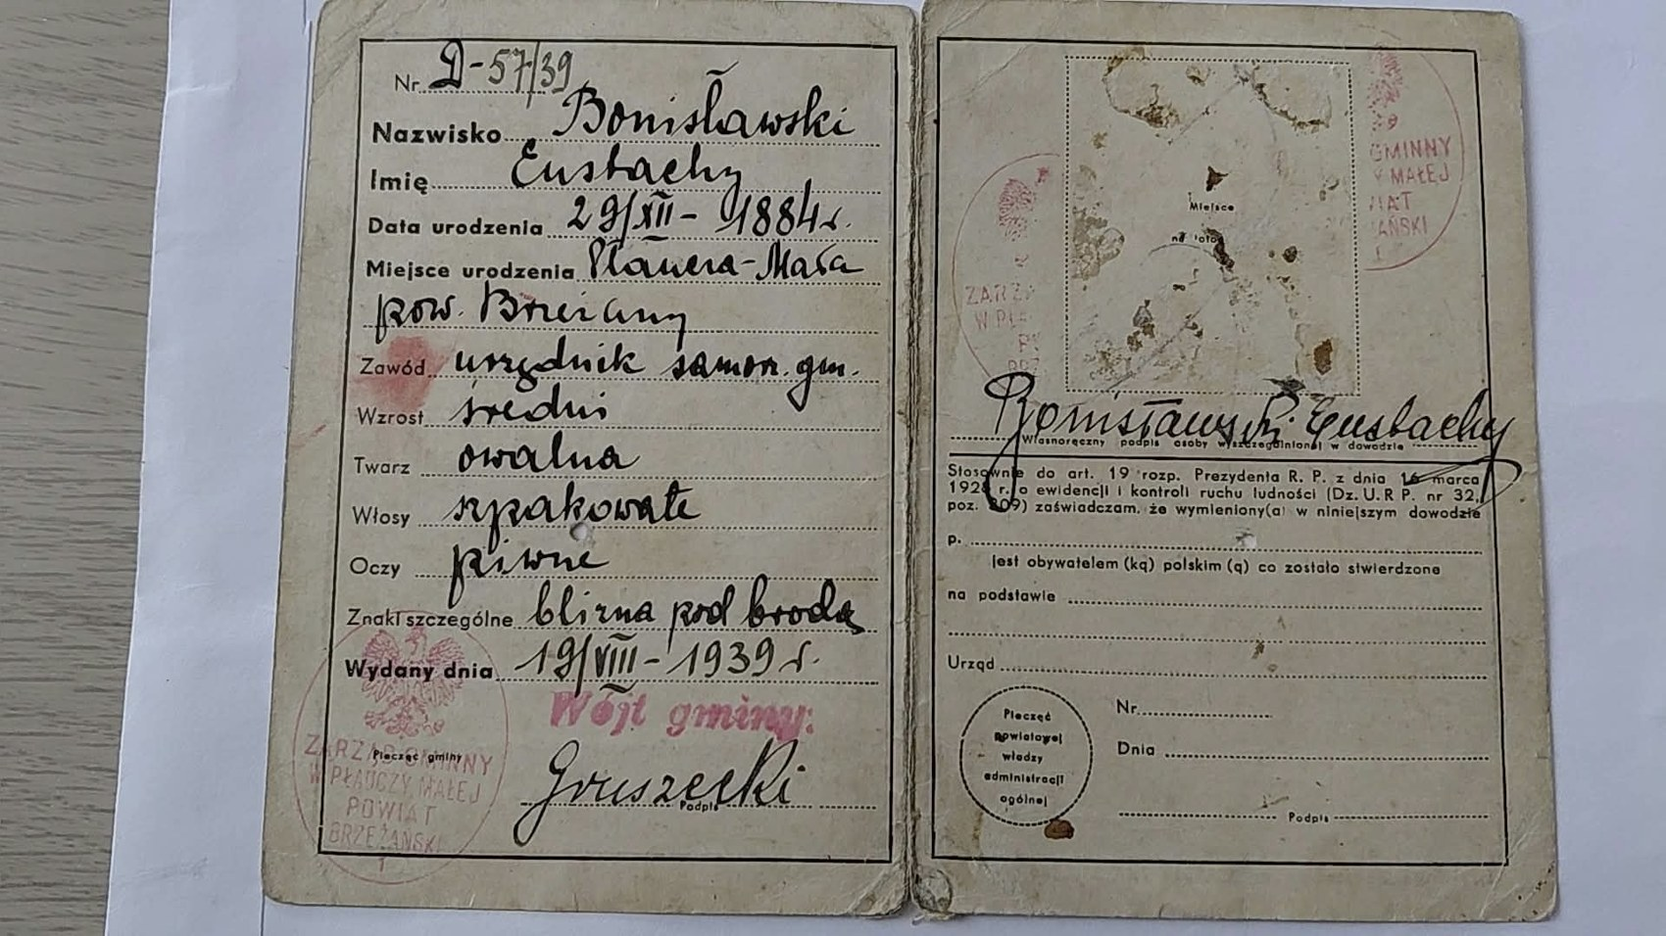
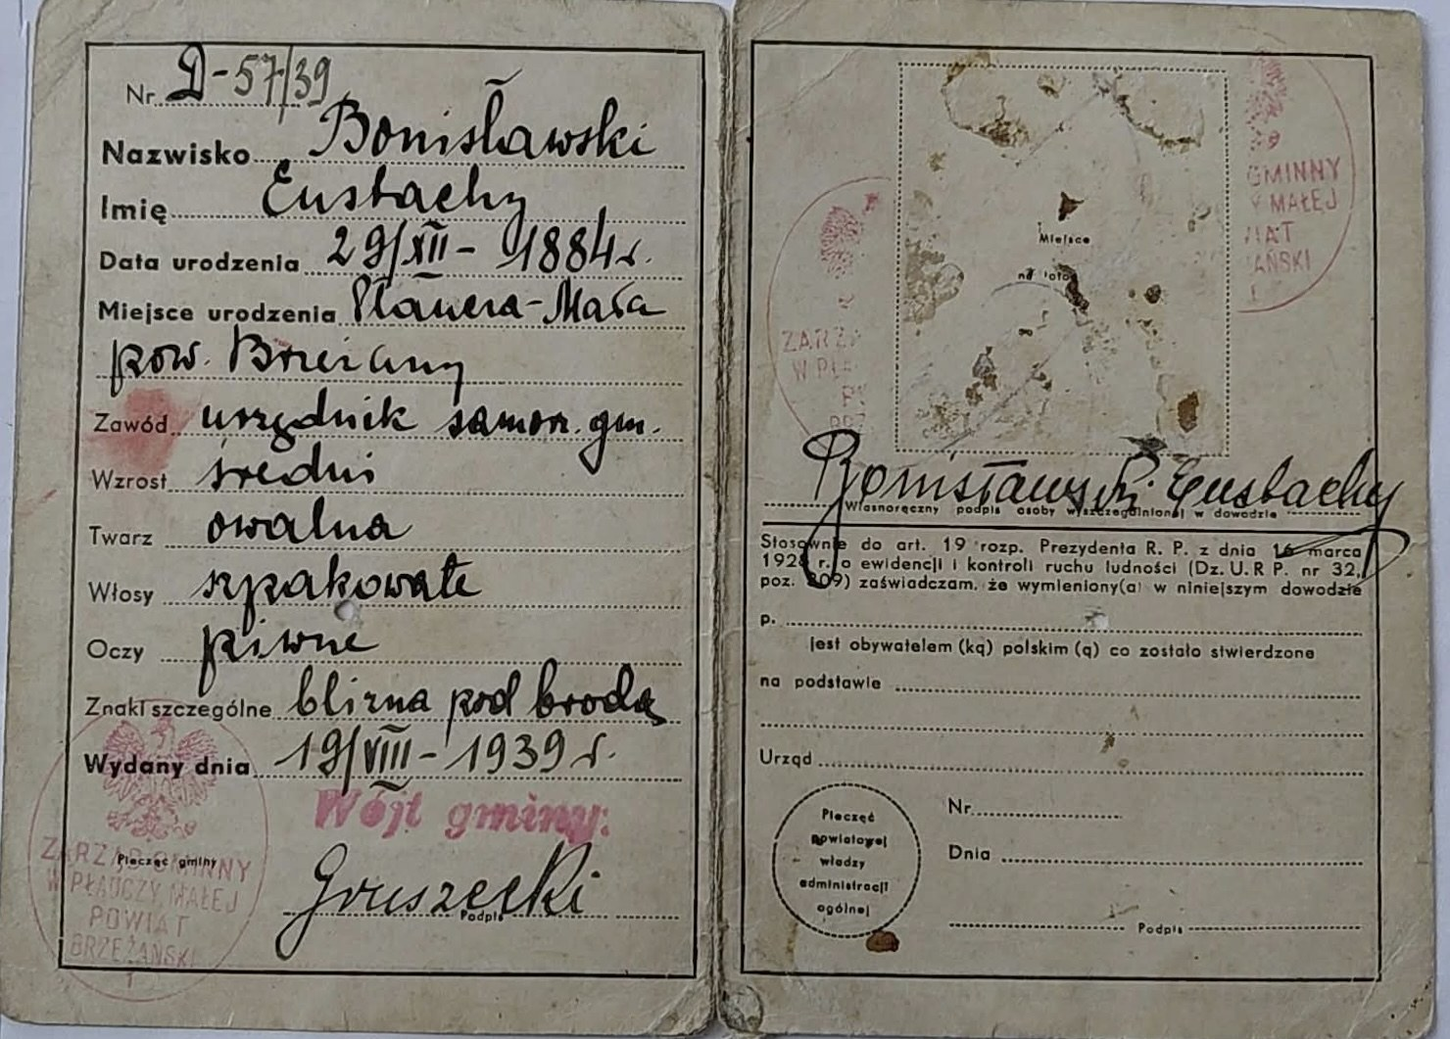
Eustachy: nowo wykadrowane skany dowodu i zawiadomienia szkolnego
Claude-Session: https://claude.ai/code/session_01MVSwCffncwZpnsp3xC5Tny

diff --git a/eustachy-i-maria.html b/eustachy-i-maria.html
@@ -8,7 +8,7 @@
     
   </header>
   <section class="pair" aria-label="Maria i Eustachy"><article class="person"><figure><button class="zoom" type="button" data-cap="Maria Bonisławska z d. Murzyńska. Koloryzacja zdjęcia" data-src="Zbiory rodzinne. Koloryzacja cyfrowa" aria-label="Powiększ zdjęcie: Maria Murzyńska"><div class="portrait"><img src="zdjecia/maria-murzynska-portret-koloryzacja.jpg?v=db186051" alt="Maria Bonisławska z d. Murzyńska. Koloryzacja zdjęcia"></div></button><figcaption><strong>Maria Murzyńska</strong><span>1892–1972</span></figcaption></figure><dl class="facts"><dt>Urodzona</dt><dd><span class="sym">*</span>17.10.1892, Płaucza Mała, dom nr 129</dd><dt>Zmarła</dt><dd><span class="sym">†</span>12.05.1972, Wierzbica Górna</dd><dt>Ślub</dt><dd>Eustachy Bonisławski</dd><dt>Mieszkała</dt><dd>Płaucza Mała, Wierzbica Górna 46</dd><dt>Ojciec</dt><dd><a href="mikolaj-i-justyna.html">Mikołaj Murzyński</a></dd><dt>Matka</dt><dd><a href="mikolaj-i-justyna.html">Justyna z d. Drewnicka</a></dd></dl><p class="factnote">Ojciec, Mikołaj Murzyński, określony jako nobilis.</p></article><article class="person"><figure><button class="zoom" type="button" data-cap="Eustachy Bonisławski. Koloryzacja zdjęcia" data-src="Zbiory rodzinne. Koloryzacja cyfrowa" aria-label="Powiększ zdjęcie: Eustachy Bonisławski"><div class="portrait"><img src="zdjecia/eustachy-bonislawski-portret-koloryzacja.jpg?v=5d2175d5" alt="Eustachy Bonisławski. Koloryzacja zdjęcia"></div></button><figcaption><strong>Eustachy Bonisławski</strong><span>1884–1939/1940</span></figcaption></figure><dl class="facts"><dt>Urodzony</dt><dd><span class="sym">*</span>29.12.1884, Płaucza Mała, dom nr 124</dd><dt>Zmarł</dt><dd><span class="sym">†</span>1939/1940, Płaucza Mała</dd><dt>Przyczyna śmierci</dt><dd>pobicie</dd><dt>Ślub</dt><dd>Maria Murzyńska</dd><dt>Zawód</dt><dd>kierował pocztą i był sekretarzem gminy</dd><dt>Mieszkał</dt><dd>Płaucza Mała 124</dd><dt>Ojciec</dt><dd><a href="franciszek-i-klara.html">Franciszek Bonisławski</a></dd><dt>Matka</dt><dd><a href="franciszek-i-klara.html">Klara z d. Sarnicka</a></dd></dl><p class="factnote">Data urodzenia według metryki urodzenia (zgodnie z dowodem osobistym i zawiadomieniem szkolnym).</p></article></section>
-  <section class="chapter"><h2>Dokumenty</h2><article class="story"><h3>Eustachy Bonisławski</h3><p>Eustachy Bonisławski kierował pocztą i był sekretarzem gminy. W dowodzie osobistym wydanym 19 sierpnia 1939 roku jako zawód wpisano: urzędnik samorządu gminnego.</p><p>W rodzinie Eustachego nazywano Stanisławem. Tak jest zapisany także w zawiadomieniu szkolnym z 1898 roku.</p><p class="srcnote">Źródło <a href="https://polska1926.pl/podpisy/1187233" target="_blank" rel="noopener">polska1926.pl, podpis nr 1187233</a></p><figure class="inline"><button class="zoom" type="button" data-cap="Metryka urodzenia Eustachego (Eustachius), Płaucza Mała, dom nr 124, urodzony i ochrzczony 29 grudnia 1884 r. Rodzice: Franciscus Bonisławski i Clara Sarnicka. Liber natorum 1884, s. 9." data-src="Archiwum Główne Akt Dawnych, zespół 301, sygn. 1610, Liber natorum 1884, Płaucza Mała, skan 0145" aria-label="Powiększ: Metryka urodzenia Eustachego (Eustachius), Płaucza Mała, dom nr 124, urodzony i ochrzczony 29 grudnia 1884 r. Rodzice: Franciscus Bonisławski i Clara Sarnicka. Liber natorum 1884, s. 9."><img src="skany/eustachy-metryka-urodzenia-1884.jpg?v=a4caab62" alt="Metryka urodzenia Eustachego (Eustachius), Płaucza Mała, dom nr 124, urodzony i ochrzczony 29 grudnia 1884 r. Rodzice: Franciscus Bonisławski i Clara Sarnicka. Liber natorum 1884, s. 9." loading="lazy" class=""></button><figcaption class="cap">Metryka urodzenia Eustachego (Eustachius), Płaucza Mała, dom nr 124, urodzony i ochrzczony 29 grudnia 1884 r. Rodzice: Franciscus Bonisławski i Clara Sarnicka. Liber natorum 1884, s. 9.<span class="src"><a href="https://agadd.home.net.pl/metrykalia/301/sygn.%201610/pages/PL_1_301_1610_0145.htm" target="_blank" rel="noopener">Archiwum Główne Akt Dawnych, zespół 301, sygn. 1610, Liber natorum 1884, Płaucza Mała, skan 0145</a></span></figcaption></figure><figure class="inline"><button class="zoom" type="button" data-cap="Świadectwo chrztu Eustachego (Testimonium Baptismi), parafia Budyłów, wydane 1 maja 1925, z wpisu w księdze: Płaucza Mała, tom III, s. 46." data-src="Zbiory rodzinne" aria-label="Powiększ: Świadectwo chrztu Eustachego (Testimonium Baptismi), parafia Budyłów, wydane 1 maja 1925, z wpisu w księdze: Płaucza Mała, tom III, s. 46."><img src="skany/eustachy-swiadectwo-chrztu-budylow.jpg?v=2827daf3" alt="Świadectwo chrztu Eustachego (Testimonium Baptismi), parafia Budyłów, wydane 1 maja 1925, z wpisu w księdze: Płaucza Mała, tom III, s. 46." loading="lazy" class=""></button><figcaption class="cap">Świadectwo chrztu Eustachego (Testimonium Baptismi), parafia Budyłów, wydane 1 maja 1925, z wpisu w księdze: Płaucza Mała, tom III, s. 46.<span class="src">Zbiory rodzinne</span></figcaption></figure><blockquote class="trans"><div class="label">Odczyt świadectwa chrztu</div><div class="tl">Testimonium Baptismi. Archidiecezja lwowska, powiat Brzeżany, parafia Budyłów.</div><div class="tl">Parafia obrządku łacińskiego, kościół pw. Najświętszej Maryi Panny w Budyłowie; wieś Płaucza Mała, tom III, s. 46.</div><div class="tl">Anno Domini 1884, dnia 29 grudnia urodzony w Płauczy Małej, pod nr 124, i tego samego dnia ochrzczony.</div><div class="tl">Imię: Eustachius. Religia: rzymskokatolicka obrządku łacińskiego. Płeć: chłopiec. Ślubny (legitimus).</div><div class="tl">Rodzice: Franciszek Bonisławski, rolnik, syn Stanisława i Marty z d. Rewna; Klara Sarnicka, córka Michała i Franciszki Pichur (odczyt niepewny).</div><div class="tl">Rodzice chrzestni: Szymon Sarnicki, rolnik, oraz [nazwisko niepewne] żona Aleksego, rolnika.</div><div class="tl">Akuszerka: Justyna Lisowska.</div><div class="tl">Wydano w Budyłowie 1 maja 1925; podpis proboszcza, pieczęć Urzędu Parafialnego w Budyłowie.</div><p class="tnote">Pismo jest częściowo trudne do odczytania. W nawiasach kwadratowych podano miejsca niepewne lub nieczytelne.</p></blockquote><figure class="inline"><button class="zoom" type="button" data-cap="Okładka dowodu osobistego, ser. E nr 667050: gmina Płaucza Mała, powiat brzeżański." data-src="Zbiory rodzinne" aria-label="Powiększ: Okładka dowodu osobistego, ser. E nr 667050: gmina Płaucza Mała, powiat brzeżański."><img src="skany/eustachy-dowod-okladka-1939.jpg?v=4a55e890" alt="Okładka dowodu osobistego, ser. E nr 667050: gmina Płaucza Mała, powiat brzeżański." loading="lazy" class=""></button><figcaption class="cap">Okładka dowodu osobistego, ser. E nr 667050: gmina Płaucza Mała, powiat brzeżański.<span class="src">Zbiory rodzinne</span></figcaption></figure><figure class="inline wide"><button class="zoom" type="button" data-cap="Dowód osobisty Eustachego Bonisławskiego, nr D-57/39, wydany 19 VIII 1939 r. Data urodzenia: 29 XII 1884 r., miejsce urodzenia: Płaucza Mała, pow. Brzeżany." data-src="Zbiory rodzinne" aria-label="Powiększ: Dowód osobisty Eustachego Bonisławskiego, nr D-57/39, wydany 19 VIII 1939 r. Data urodzenia: 29 XII 1884 r., miejsce urodzenia: Płaucza Mała, pow. Brzeżany."><img src="skany/eustachy-dowod-1939.jpg?v=c0a7e911" alt="Dowód osobisty Eustachego Bonisławskiego, nr D-57/39, wydany 19 VIII 1939 r. Data urodzenia: 29 XII 1884 r., miejsce urodzenia: Płaucza Mała, pow. Brzeżany." loading="lazy" class=""></button><figcaption class="cap">Dowód osobisty Eustachego Bonisławskiego, nr D-57/39, wydany 19 VIII 1939 r. Data urodzenia: 29 XII 1884 r., miejsce urodzenia: Płaucza Mała, pow. Brzeżany.<span class="src">Zbiory rodzinne</span></figcaption></figure><figure class="inline"><button class="zoom" type="button" data-cap="Zawiadomienie szkolne z 1 II 1898 r., szkoła w Płauczy Małej, klasa IV, rok szkolny 1897/8. Uczeń: Eustachy Bonisławski, zapisany w dokumencie jako Stanisław, ur. 29 grudnia 1884 w Płauczy Małej. Podpis ojca: Franciszek Bonisławski." data-src="Zbiory rodzinne" aria-label="Powiększ: Zawiadomienie szkolne z 1 II 1898 r., szkoła w Płauczy Małej, klasa IV, rok szkolny 1897/8. Uczeń: Eustachy Bonisławski, zapisany w dokumencie jako Stanisław, ur. 29 grudnia 1884 w Płauczy Małej. Podpis ojca: Franciszek Bonisławski."><img src="skany/zawiadomienie-szkolne-1898.jpg?v=d28e2fca" alt="Zawiadomienie szkolne z 1 II 1898 r., szkoła w Płauczy Małej, klasa IV, rok szkolny 1897/8. Uczeń: Eustachy Bonisławski, zapisany w dokumencie jako Stanisław, ur. 29 grudnia 1884 w Płauczy Małej. Podpis ojca: Franciszek Bonisławski." loading="lazy" class=""></button><figcaption class="cap">Zawiadomienie szkolne z 1 II 1898 r., szkoła w Płauczy Małej, klasa IV, rok szkolny 1897/8. Uczeń: Eustachy Bonisławski, zapisany w dokumencie jako Stanisław, ur. 29 grudnia 1884 w Płauczy Małej. Podpis ojca: Franciszek Bonisławski.<span class="src">Zbiory rodzinne</span></figcaption></figure></article></section><section class="chapter"><h2>Dwudziestolecie międzywojenne</h2><article class="story"><h3>Eustachy Bonisławski</h3><p>„Głos Brzeżański” w artykule „Posiedzenie Rady Powiatowej” opisał drugie posiedzenie nowo wybranej Rady Powiatowej, które odbyło się 29 lipca 1935 roku. Wśród zastępców członków komisji drogowej z ramienia Rady wymieniono Eustachego Bonisławskiego.</p><figure class="inline wide"><button class="zoom" type="button" data-cap="„Głos Brzeżański”, R. IV, nr 15 z 1 sierpnia 1935 r., s. 2: „Posiedzenie Rady Powiatowej” (zaznaczone na czerwono). Wśród zastępców członków komisji drogowej: Bonisławski Eustachy." data-src="Jagiellońska Biblioteka Cyfrowa, „Głos Brzeżański”, R. IV, nr 15, 1 sierpnia 1935" aria-label="Powiększ: „Głos Brzeżański”, R. IV, nr 15 z 1 sierpnia 1935 r., s. 2: „Posiedzenie Rady Powiatowej” (zaznaczone na czerwono). Wśród zastępców członków komisji drogowej: Bonisławski Eustachy."><img src="skany/eustachy-glos-brzezanski-nr15.jpg?v=9732cf35" alt="„Głos Brzeżański”, R. IV, nr 15 z 1 sierpnia 1935 r., s. 2: „Posiedzenie Rady Powiatowej” (zaznaczone na czerwono). Wśród zastępców członków komisji drogowej: Bonisławski Eustachy." loading="lazy" class=""></button><figcaption class="cap">„Głos Brzeżański”, R. IV, nr 15 z 1 sierpnia 1935 r., s. 2: „Posiedzenie Rady Powiatowej” (zaznaczone na czerwono). Wśród zastępców członków komisji drogowej: Bonisławski Eustachy.<span class="src"><a href="https://jbc.bj.uj.edu.pl/Content/958160/NDIGCZAS097516_1935_015.pdf" target="_blank" rel="noopener">Jagiellońska Biblioteka Cyfrowa, „Głos Brzeżański”, R. IV, nr 15, 1 sierpnia 1935</a></span></figcaption></figure></article></section><section class="chapter"><h2>Zdjęcie rodzinne</h2><article class="story"><h3>Rodzina</h3><figure class="inline"><button class="zoom" type="button" data-cap="Zdjęcie rodzinne. Od góry z lewej: Jadwiga (ur. 15.05.1921), Bronisław (ur. 21.06.1917), Agnieszka (ur. 22.01.1923). Na dole od lewej: Eustachy (ur. 29.12.1884), Justyna, matka Marii (ur. 1872), Maria (ur. 17.10.1892), na kolanach siedzi córka Maria (ur. 6.07.1925)." data-src="Zbiory rodzinne" aria-label="Powiększ: Zdjęcie rodzinne. Od góry z lewej: Jadwiga (ur. 15.05.1921), Bronisław (ur. 21.06.1917), Agnieszka (ur. 22.01.1923). Na dole od lewej: Eustachy (ur. 29.12.1884), Justyna, matka Marii (ur. 1872), Maria (ur. 17.10.1892), na kolanach siedzi córka Maria (ur. 6.07.1925)."><img src="zdjecia/zdjecie-rodzinne-bonislawscy.jpg?v=e970542b" alt="Zdjęcie rodzinne. Od góry z lewej: Jadwiga (ur. 15.05.1921), Bronisław (ur. 21.06.1917), Agnieszka (ur. 22.01.1923). Na dole od lewej: Eustachy (ur. 29.12.1884), Justyna, matka Marii (ur. 1872), Maria (ur. 17.10.1892), na kolanach siedzi córka Maria (ur. 6.07.1925)." loading="lazy" class=""></button><figcaption class="cap">Zdjęcie rodzinne. Od góry z lewej: Jadwiga (ur. 15.05.1921), Bronisław (ur. 21.06.1917), Agnieszka (ur. 22.01.1923). Na dole od lewej: Eustachy (ur. 29.12.1884), Justyna, matka Marii (ur. 1872), Maria (ur. 17.10.1892), na kolanach siedzi córka Maria (ur. 6.07.1925).<span class="src">Zbiory rodzinne</span></figcaption></figure></article></section>
+  <section class="chapter"><h2>Dokumenty</h2><article class="story"><h3>Eustachy Bonisławski</h3><p>Eustachy Bonisławski kierował pocztą i był sekretarzem gminy. W dowodzie osobistym wydanym 19 sierpnia 1939 roku jako zawód wpisano: urzędnik samorządu gminnego.</p><p>W rodzinie Eustachego nazywano Stanisławem. Tak jest zapisany także w zawiadomieniu szkolnym z 1898 roku.</p><p class="srcnote">Źródło <a href="https://polska1926.pl/podpisy/1187233" target="_blank" rel="noopener">polska1926.pl, podpis nr 1187233</a></p><figure class="inline"><button class="zoom" type="button" data-cap="Metryka urodzenia Eustachego (Eustachius), Płaucza Mała, dom nr 124, urodzony i ochrzczony 29 grudnia 1884 r. Rodzice: Franciscus Bonisławski i Clara Sarnicka. Liber natorum 1884, s. 9." data-src="Archiwum Główne Akt Dawnych, zespół 301, sygn. 1610, Liber natorum 1884, Płaucza Mała, skan 0145" aria-label="Powiększ: Metryka urodzenia Eustachego (Eustachius), Płaucza Mała, dom nr 124, urodzony i ochrzczony 29 grudnia 1884 r. Rodzice: Franciscus Bonisławski i Clara Sarnicka. Liber natorum 1884, s. 9."><img src="skany/eustachy-metryka-urodzenia-1884.jpg?v=a4caab62" alt="Metryka urodzenia Eustachego (Eustachius), Płaucza Mała, dom nr 124, urodzony i ochrzczony 29 grudnia 1884 r. Rodzice: Franciscus Bonisławski i Clara Sarnicka. Liber natorum 1884, s. 9." loading="lazy" class=""></button><figcaption class="cap">Metryka urodzenia Eustachego (Eustachius), Płaucza Mała, dom nr 124, urodzony i ochrzczony 29 grudnia 1884 r. Rodzice: Franciscus Bonisławski i Clara Sarnicka. Liber natorum 1884, s. 9.<span class="src"><a href="https://agadd.home.net.pl/metrykalia/301/sygn.%201610/pages/PL_1_301_1610_0145.htm" target="_blank" rel="noopener">Archiwum Główne Akt Dawnych, zespół 301, sygn. 1610, Liber natorum 1884, Płaucza Mała, skan 0145</a></span></figcaption></figure><figure class="inline"><button class="zoom" type="button" data-cap="Świadectwo chrztu Eustachego (Testimonium Baptismi), parafia Budyłów, wydane 1 maja 1925, z wpisu w księdze: Płaucza Mała, tom III, s. 46." data-src="Zbiory rodzinne" aria-label="Powiększ: Świadectwo chrztu Eustachego (Testimonium Baptismi), parafia Budyłów, wydane 1 maja 1925, z wpisu w księdze: Płaucza Mała, tom III, s. 46."><img src="skany/eustachy-swiadectwo-chrztu-budylow.jpg?v=2827daf3" alt="Świadectwo chrztu Eustachego (Testimonium Baptismi), parafia Budyłów, wydane 1 maja 1925, z wpisu w księdze: Płaucza Mała, tom III, s. 46." loading="lazy" class=""></button><figcaption class="cap">Świadectwo chrztu Eustachego (Testimonium Baptismi), parafia Budyłów, wydane 1 maja 1925, z wpisu w księdze: Płaucza Mała, tom III, s. 46.<span class="src">Zbiory rodzinne</span></figcaption></figure><blockquote class="trans"><div class="label">Odczyt świadectwa chrztu</div><div class="tl">Testimonium Baptismi. Archidiecezja lwowska, powiat Brzeżany, parafia Budyłów.</div><div class="tl">Parafia obrządku łacińskiego, kościół pw. Najświętszej Maryi Panny w Budyłowie; wieś Płaucza Mała, tom III, s. 46.</div><div class="tl">Anno Domini 1884, dnia 29 grudnia urodzony w Płauczy Małej, pod nr 124, i tego samego dnia ochrzczony.</div><div class="tl">Imię: Eustachius. Religia: rzymskokatolicka obrządku łacińskiego. Płeć: chłopiec. Ślubny (legitimus).</div><div class="tl">Rodzice: Franciszek Bonisławski, rolnik, syn Stanisława i Marty z d. Rewna; Klara Sarnicka, córka Michała i Franciszki Pichur (odczyt niepewny).</div><div class="tl">Rodzice chrzestni: Szymon Sarnicki, rolnik, oraz [nazwisko niepewne] żona Aleksego, rolnika.</div><div class="tl">Akuszerka: Justyna Lisowska.</div><div class="tl">Wydano w Budyłowie 1 maja 1925; podpis proboszcza, pieczęć Urzędu Parafialnego w Budyłowie.</div><p class="tnote">Pismo jest częściowo trudne do odczytania. W nawiasach kwadratowych podano miejsca niepewne lub nieczytelne.</p></blockquote><figure class="inline"><button class="zoom" type="button" data-cap="Okładka dowodu osobistego, ser. E nr 667050: gmina Płaucza Mała, powiat brzeżański." data-src="Zbiory rodzinne" aria-label="Powiększ: Okładka dowodu osobistego, ser. E nr 667050: gmina Płaucza Mała, powiat brzeżański."><img src="skany/eustachy-dowod-okladka-1939.jpg?v=302e00f2" alt="Okładka dowodu osobistego, ser. E nr 667050: gmina Płaucza Mała, powiat brzeżański." loading="lazy" class=""></button><figcaption class="cap">Okładka dowodu osobistego, ser. E nr 667050: gmina Płaucza Mała, powiat brzeżański.<span class="src">Zbiory rodzinne</span></figcaption></figure><figure class="inline wide"><button class="zoom" type="button" data-cap="Dowód osobisty Eustachego Bonisławskiego, nr D-57/39, wydany 19 VIII 1939 r. Data urodzenia: 29 XII 1884 r., miejsce urodzenia: Płaucza Mała, pow. Brzeżany." data-src="Zbiory rodzinne" aria-label="Powiększ: Dowód osobisty Eustachego Bonisławskiego, nr D-57/39, wydany 19 VIII 1939 r. Data urodzenia: 29 XII 1884 r., miejsce urodzenia: Płaucza Mała, pow. Brzeżany."><img src="skany/eustachy-dowod-1939.jpg?v=b31c19f9" alt="Dowód osobisty Eustachego Bonisławskiego, nr D-57/39, wydany 19 VIII 1939 r. Data urodzenia: 29 XII 1884 r., miejsce urodzenia: Płaucza Mała, pow. Brzeżany." loading="lazy" class=""></button><figcaption class="cap">Dowód osobisty Eustachego Bonisławskiego, nr D-57/39, wydany 19 VIII 1939 r. Data urodzenia: 29 XII 1884 r., miejsce urodzenia: Płaucza Mała, pow. Brzeżany.<span class="src">Zbiory rodzinne</span></figcaption></figure><figure class="inline"><button class="zoom" type="button" data-cap="Zawiadomienie szkolne z 1 II 1898 r., szkoła w Płauczy Małej, klasa IV, rok szkolny 1897/8. Uczeń: Eustachy Bonisławski, zapisany w dokumencie jako Stanisław, ur. 29 grudnia 1884 w Płauczy Małej. Podpis ojca: Franciszek Bonisławski." data-src="Zbiory rodzinne" aria-label="Powiększ: Zawiadomienie szkolne z 1 II 1898 r., szkoła w Płauczy Małej, klasa IV, rok szkolny 1897/8. Uczeń: Eustachy Bonisławski, zapisany w dokumencie jako Stanisław, ur. 29 grudnia 1884 w Płauczy Małej. Podpis ojca: Franciszek Bonisławski."><img src="skany/zawiadomienie-szkolne-1898.jpg?v=1b7a3843" alt="Zawiadomienie szkolne z 1 II 1898 r., szkoła w Płauczy Małej, klasa IV, rok szkolny 1897/8. Uczeń: Eustachy Bonisławski, zapisany w dokumencie jako Stanisław, ur. 29 grudnia 1884 w Płauczy Małej. Podpis ojca: Franciszek Bonisławski." loading="lazy" class=""></button><figcaption class="cap">Zawiadomienie szkolne z 1 II 1898 r., szkoła w Płauczy Małej, klasa IV, rok szkolny 1897/8. Uczeń: Eustachy Bonisławski, zapisany w dokumencie jako Stanisław, ur. 29 grudnia 1884 w Płauczy Małej. Podpis ojca: Franciszek Bonisławski.<span class="src">Zbiory rodzinne</span></figcaption></figure></article></section><section class="chapter"><h2>Dwudziestolecie międzywojenne</h2><article class="story"><h3>Eustachy Bonisławski</h3><p>„Głos Brzeżański” w artykule „Posiedzenie Rady Powiatowej” opisał drugie posiedzenie nowo wybranej Rady Powiatowej, które odbyło się 29 lipca 1935 roku. Wśród zastępców członków komisji drogowej z ramienia Rady wymieniono Eustachego Bonisławskiego.</p><figure class="inline wide"><button class="zoom" type="button" data-cap="„Głos Brzeżański”, R. IV, nr 15 z 1 sierpnia 1935 r., s. 2: „Posiedzenie Rady Powiatowej” (zaznaczone na czerwono). Wśród zastępców członków komisji drogowej: Bonisławski Eustachy." data-src="Jagiellońska Biblioteka Cyfrowa, „Głos Brzeżański”, R. IV, nr 15, 1 sierpnia 1935" aria-label="Powiększ: „Głos Brzeżański”, R. IV, nr 15 z 1 sierpnia 1935 r., s. 2: „Posiedzenie Rady Powiatowej” (zaznaczone na czerwono). Wśród zastępców członków komisji drogowej: Bonisławski Eustachy."><img src="skany/eustachy-glos-brzezanski-nr15.jpg?v=9732cf35" alt="„Głos Brzeżański”, R. IV, nr 15 z 1 sierpnia 1935 r., s. 2: „Posiedzenie Rady Powiatowej” (zaznaczone na czerwono). Wśród zastępców członków komisji drogowej: Bonisławski Eustachy." loading="lazy" class=""></button><figcaption class="cap">„Głos Brzeżański”, R. IV, nr 15 z 1 sierpnia 1935 r., s. 2: „Posiedzenie Rady Powiatowej” (zaznaczone na czerwono). Wśród zastępców członków komisji drogowej: Bonisławski Eustachy.<span class="src"><a href="https://jbc.bj.uj.edu.pl/Content/958160/NDIGCZAS097516_1935_015.pdf" target="_blank" rel="noopener">Jagiellońska Biblioteka Cyfrowa, „Głos Brzeżański”, R. IV, nr 15, 1 sierpnia 1935</a></span></figcaption></figure></article></section><section class="chapter"><h2>Zdjęcie rodzinne</h2><article class="story"><h3>Rodzina</h3><figure class="inline"><button class="zoom" type="button" data-cap="Zdjęcie rodzinne. Od góry z lewej: Jadwiga (ur. 15.05.1921), Bronisław (ur. 21.06.1917), Agnieszka (ur. 22.01.1923). Na dole od lewej: Eustachy (ur. 29.12.1884), Justyna, matka Marii (ur. 1872), Maria (ur. 17.10.1892), na kolanach siedzi córka Maria (ur. 6.07.1925)." data-src="Zbiory rodzinne" aria-label="Powiększ: Zdjęcie rodzinne. Od góry z lewej: Jadwiga (ur. 15.05.1921), Bronisław (ur. 21.06.1917), Agnieszka (ur. 22.01.1923). Na dole od lewej: Eustachy (ur. 29.12.1884), Justyna, matka Marii (ur. 1872), Maria (ur. 17.10.1892), na kolanach siedzi córka Maria (ur. 6.07.1925)."><img src="zdjecia/zdjecie-rodzinne-bonislawscy.jpg?v=e970542b" alt="Zdjęcie rodzinne. Od góry z lewej: Jadwiga (ur. 15.05.1921), Bronisław (ur. 21.06.1917), Agnieszka (ur. 22.01.1923). Na dole od lewej: Eustachy (ur. 29.12.1884), Justyna, matka Marii (ur. 1872), Maria (ur. 17.10.1892), na kolanach siedzi córka Maria (ur. 6.07.1925)." loading="lazy" class=""></button><figcaption class="cap">Zdjęcie rodzinne. Od góry z lewej: Jadwiga (ur. 15.05.1921), Bronisław (ur. 21.06.1917), Agnieszka (ur. 22.01.1923). Na dole od lewej: Eustachy (ur. 29.12.1884), Justyna, matka Marii (ur. 1872), Maria (ur. 17.10.1892), na kolanach siedzi córka Maria (ur. 6.07.1925).<span class="src">Zbiory rodzinne</span></figcaption></figure></article></section>
   <section class="chapter" id="dzieci"><h2>Dzieci</h2><ul class="kidlist"><li><strong>Anna</strong> <span>ur. 1 sierpnia 1915, zm. 19 stycznia 1996; mąż: Ludwik Pichur</span></li><li><strong><a href="index.html">Bronisław</a></strong> <span>ur. 21 czerwca 1917, zm. 1996; żona: Zofia Nowalska</span></li><li><strong>Jadwiga</strong> <span>ur. 15 maja 1921, zm. 1995; mąż: Wojciech Dereń</span></li><li><strong><a href="agnieszka-i-michal.html">Agnieszka</a></strong> <span>ur. 22 stycznia 1923, zm. 3 lipca 2017; mąż: Michał Bonisławski</span></li><li><strong>Maria</strong> <span>ur. 6 lipca 1925, zm. 27 maja 2011; mąż: Władysław Cisowski</span></li></ul></section>
   
   <section class="chapter"><h2>Dalej w drzewie</h2><div class="next"><a href="mikolaj-i-justyna.html"><span class="label">Rodzice: Maria Murzyńska</span><strong>Justyna i Mikołaj</strong></a><a href="franciszek-i-klara.html"><span class="label">Rodzice: Eustachy Bonisławski</span><strong>Klara i Franciszek</strong></a><a class="down" href="index.html"><span class="label">Ich dziecko: Bronisław Bonisławski</span><strong>Zofia i Bronisław</strong></a><a class="down" href="agnieszka-i-michal.html"><span class="label">Ich dziecko: Agnieszka Bonisławska</span><strong>Agnieszka i Michał</strong></a></div></section>
